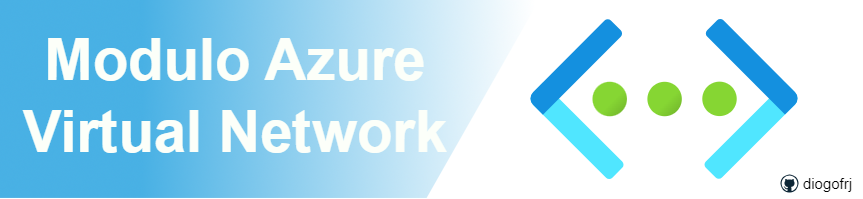
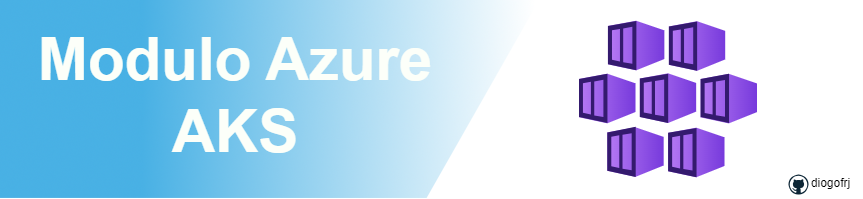
first commit

diff --git a/README.md b/README.md
@@ -1,10 +1,10 @@
 <!-- BEGIN_TF_DOCS -->
 <!-- Título do Módulo -->
-# 🌐 Terraform AzureRM - Virtual Network
+# 🌐 Terraform AzureRM - Azure Kubernetes Service
 
 ![Banner](docs/images/Module-banner.png)
 
-# Como utilizar este módulo
+# 📚 Como utilizar este módulo
 
 ```hcl
 # providers.tf
@@ -101,18 +101,22 @@ No modules.
 
 | Name | Type |
 |------|------|
+| [azurerm_kubernetes_cluster.aks](https://registry.terraform.io/providers/hashicorp/azurerm/latest/docs/resources/kubernetes_cluster) | resource |
 | [azurerm_resource_group.rg](https://registry.terraform.io/providers/hashicorp/azurerm/latest/docs/resources/resource_group) | resource |
-| [azurerm_virtual_network.vnet](https://registry.terraform.io/providers/hashicorp/azurerm/latest/docs/resources/virtual_network) | resource |
 | [azurerm_resource_group.rgrp](https://registry.terraform.io/providers/hashicorp/azurerm/latest/docs/data-sources/resource_group) | data source |
 
 ## Inputs
 
 | Name | Description | Type | Default | Required |
 |------|-------------|------|---------|:--------:|
+| <a name="input_aks_name"></a> [aks\_name](#input\_aks\_name) | Nome do cluster AKS | `string` | n/a | yes |
+| <a name="input_default_node_pool_count"></a> [default\_node\_pool\_count](#input\_default\_node\_pool\_count) | Número de nós no pool padrão | `number` | n/a | yes |
+| <a name="input_default_node_pool_name"></a> [default\_node\_pool\_name](#input\_default\_node\_pool\_name) | Nome do pool de nós padrão | `string` | n/a | yes |
+| <a name="input_default_node_pool_vm_size"></a> [default\_node\_pool\_vm\_size](#input\_default\_node\_pool\_vm\_size) | Tamanho da VM do pool padrão | `string` | n/a | yes |
+| <a name="input_dns_prefix"></a> [dns\_prefix](#input\_dns\_prefix) | Prefixo DNS para o cluster AKS | `string` | n/a | yes |
+| <a name="input_identity_type"></a> [identity\_type](#input\_identity\_type) | Tipo de identidade do cluster AKS | `string` | n/a | yes |
 | <a name="input_location"></a> [location](#input\_location) | Localização do Azure onde os recursos serão criados | `string` | n/a | yes |
 | <a name="input_resource_group_name"></a> [resource\_group\_name](#input\_resource\_group\_name) | Nome do grupo de recursos | `string` | n/a | yes |
-| <a name="input_vnet_address_space"></a> [vnet\_address\_space](#input\_vnet\_address\_space) | Espaço de endereços da VNet | `list(string)` | n/a | yes |
-| <a name="input_vnet_name"></a> [vnet\_name](#input\_vnet\_name) | Nome da VNet | `string` | n/a | yes |
 | <a name="input_create_resource_group"></a> [create\_resource\_group](#input\_create\_resource\_group) | Controla se o grupo de recursos deve ser criado (true) ou usar um existente (false) | `bool` | `true` | no |
 | <a name="input_tags"></a> [tags](#input\_tags) | Tags a serem aplicadas aos recursos | `map(string)` | `{}` | no |
 
@@ -120,7 +124,9 @@ No modules.
 
 | Name | Description |
 |------|-------------|
-| <a name="output_vnet_id"></a> [vnet\_id](#output\_vnet\_id) | ID da VNet |
+| <a name="output_aks_name"></a> [aks\_name](#output\_aks\_name) | n/a |
+| <a name="output_client_certificate"></a> [client\_certificate](#output\_client\_certificate) | n/a |
+| <a name="output_kube_config"></a> [kube\_config](#output\_kube\_config) | n/a |
 
 <h2 align="left">Contatos:</h2>
 <p align="left">

diff --git a/examples/aks-cluster-basic/README.md b/examples/aks-cluster-basic/README.md
@@ -43,30 +43,41 @@ module "labels" {
   region       = "eastus2"
 }
 
-module "vnet" {
 
-  source  = "../../"
+module "aks" {
+  source = "../../"
   # Resource Group
   create_resource_group = true
   resource_group_name   = module.labels.resource_group_name
   location              = "eastus2"
-  vnet_name             = module.labels.vnet_name
-  vnet_address_space    = ["10.1.0.0/16", "192.168.0.0/16"]
+  aks_name              = module.labels.aks_name
+  dns_prefix            = trim(module.labels.aks_name, "-")
+  default_node_pool_name = "default"
+  default_node_pool_count = 1
+  default_node_pool_vm_size = "Standard_DS2_v2"
+  identity_type = "SystemAssigned"
 
   tags = {
-    ProjectName  = "demo-internal"
-    Env          = "dev"
-    Owner        = "user@example.com"
-    BusinessUnit = "CORP"
-    ServiceClass = "Gold"
+    "project"     = "module-aks"
+    "environment" = "dev"
+
   }
 }
 ```
 ```hcl
 # outputs.tf
-output "vnet_id" {
-  description = "ID da VNet"
-  value       = module.vnet.vnet_id
+output "client_certificate" {
+  value     = module.aks.client_certificate
+  sensitive = true
+}
+
+output "kube_config" {
+  value     = module.aks.kube_config
+  sensitive = true
+}
+
+output "aks_name" {
+  value = module.aks.aks_name
 }
 ```
 

diff --git a/docs/.header.md b/docs/.header.md
@@ -1,9 +1,9 @@
 <!-- Título do Módulo -->
-# 🌐 Terraform AzureRM - Virtual Network
+# 🌐 Terraform AzureRM - Azure Kubernetes Service
 
 ![Banner](docs/images/Module-banner.png)
 
-# Como utilizar este módulo
+# 📚 Como utilizar este módulo
 
 ```hcl
 # providers.tf
